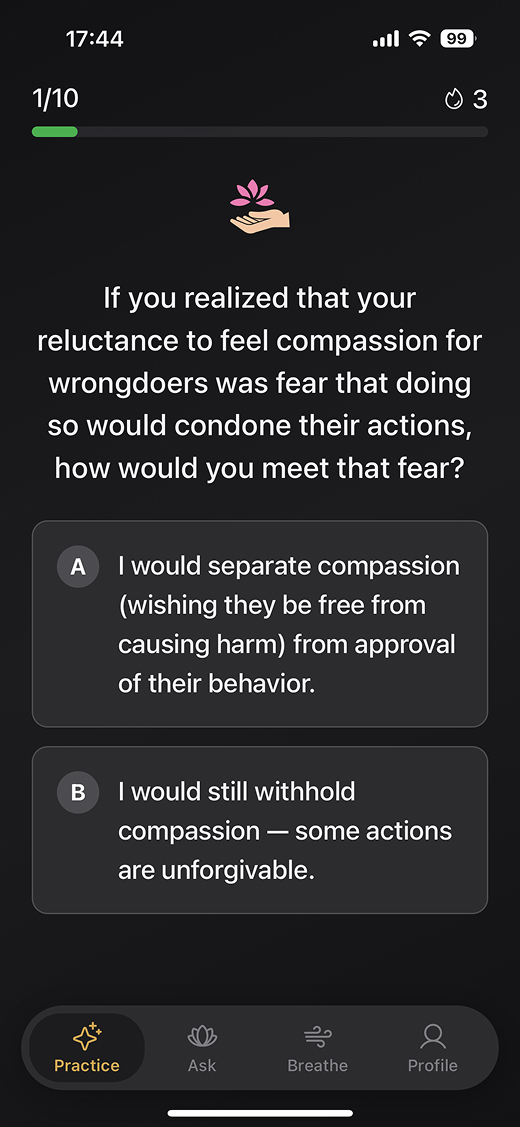
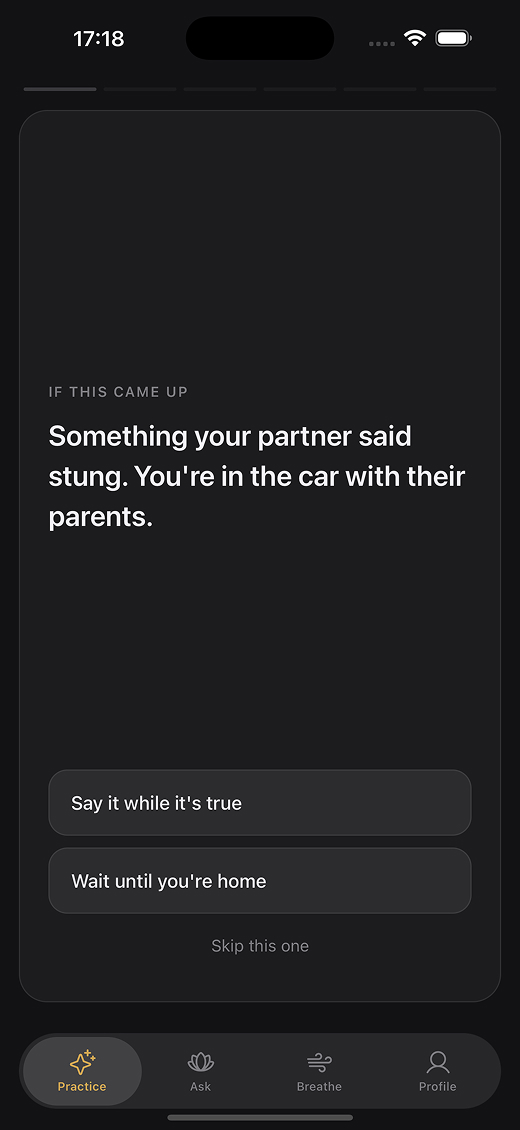
updated content

diff --git a/index.html b/index.html
@@ -2,7 +2,7 @@
 layout: default
 image: /assets/og-image.png
 title: Daily Mindful Decision-Making App
-description: Practice making calmer, wiser choices every day. Buddhist-inspired quizzes, AI-powered guidance, breathing exercises, and personal growth tracking. Free to start.
+description: Practice making calmer, wiser choices every day. A short Buddhist-inspired daily practice, AI-powered guidance, breathing exercises, and patterns that show where you actually lean. Free to start.
 ---
 
 <!-- Hero Section -->
@@ -121,14 +121,13 @@ description: Practice making calmer, wiser choices every day. Buddhist-inspired 
         <h2
           class="text-3xl sm:text-4xl lg:text-[44px] font-bold text-dark leading-tight mb-4"
         >
-          Track Your Growth Across 8 Core Buddhist Concepts
+          See Where You Actually Lean, Across Five Concepts
         </h2>
         <p class="text-body text-base leading-relaxed mb-6">
-          Every question you answer maps to a core Buddhist concept —
-          Compassion, Patience, Letting Go, Mindfulness, Right Speech,
-          Acceptance, Kindness, and Wisdom. Over time, your personal radar chart
-          reveals where you're strong and where you can grow. Watch your
-          awareness deepen with each day of practice.
+          Right Speech, Kindness, Patience, Letting Go and Mindfulness — each
+          one a real tension rather than a score. Your answers place you between
+          two honest options, and Patterns shows where you sit, along with the
+          gap between what you would do and what you did.
         </p>
         <a
           href="{{ '/practice-map/' | relative_url }}"

diff --git a/_pages/practice-map.md b/_pages/practice-map.md
@@ -1,49 +1,48 @@
 ---
 layout: page
-title: Practice Map — Track Your Mindfulness Growth Across 8 Buddhist Concepts
+title: Practice Map — See Where You Actually Lean Across Five Buddhist Concepts
 permalink: /practice-map/
 image: /assets/og-image.png
-description: Practice Map visualizes your mindfulness growth across 8 core Buddhist concepts — compassion, patience, letting go, mindfulness, right speech, acceptance, kindness, and wisdom.
+description: Patterns in the Choose Like Buddha app shows where you sit between two honest options across five Buddhist concepts — right speech, kindness, patience, letting go, and mindfulness — and the gap between what you would do and what you did.
 ---
 
 <div class="not-prose mb-10">
-{% include phone-mockup.html image="assets/screens/IMG_9284.jpg" alt="Practice Map radar chart in the Choose Like Buddha app" size="md" %}
+{% include phone-mockup.html image="assets/screens/IMG_9284.jpg" alt="The Patterns section in the Choose Like Buddha app" size="md" %}
 </div>
 
-# Practice Map: See Your Mindfulness Grow Across 8 Buddhist Concepts
+# Practice Map: See Where You Actually Lean
 
-Mindfulness isn't a single skill — it's a family of related qualities you strengthen one small choice at a time. **Practice Map** is the feature in the [Choose Like Buddha app]({{ '/' | relative_url }}) that turns those daily choices into a clear, visual picture of how your awareness is actually developing over time.
+Mindfulness isn't a single skill — it's a family of related qualities you meet one small choice at a time. **Patterns** is the part of the [Choose Like Buddha app]({{ '/' | relative_url }}) that turns those daily choices into a picture of where you actually sit, not a score for how well you did.
 
-## What Is the Practice Map?
+## What Patterns Shows You
 
-Practice Map is a personal radar chart that tracks your responses across eight foundational Buddhist concepts. Every quiz answer you give in the app maps to one of these eight dimensions, so the more you practice, the sharper the picture becomes. It's a mirror, not a scoreboard — a quiet way to see which parts of your mind you've been exercising and which ones could use more attention.
+Patterns is not a scoreboard, and there is no percentage to raise. Each day's practice asks you to choose between two options that are both defensible — sparing someone's feelings or telling them the truth, waiting or pressing, setting something down or keeping it live. Neither is the right answer. Over enough days, which one you reach for becomes visible, and that is the thing worth seeing.
 
-## The 8 Core Buddhist Concepts
+## The Five Concepts
 
-- **Compassion** — the warmth we extend to others and to ourselves
-- **Patience** — staying steady when things take longer than we'd like
-- **Letting Go** — releasing what we can't control
-- **Mindfulness** — returning to the present moment
-- **Right Speech** — speaking truthfully, kindly, and at the right time
-- **Acceptance** — meeting reality as it is, not as we wish it were
-- **Kindness** — small, deliberate acts of care
-- **Wisdom** — seeing clearly through the noise
+Each concept is a tension between two poles rather than a virtue to score:
 
-Together, these eight concepts cover the core territory of Buddhist ethical practice and map naturally onto the real decisions you make every day — at work, with family, and in your own mind.
+- **Right Speech** — sparing them, or telling them
+- **Kindness** — softening it, or letting it land
+- **Patience** — waiting, or pressing
+- **Letting Go** — setting it down, or keeping it live
+- **Mindfulness** — letting it pass, or marking it
 
-## How the Radar Chart Works
+These five cover the ground where most everyday decisions actually get made — at work, with family, and in your own head.
 
-1. **Answer daily quiz questions.** Each question presents a realistic situation with a common-sense response and a mindful one.
-2. **Your answers are scored across the 8 concepts.** Some questions test patience, others compassion, others right speech.
-3. **Your radar chart updates in real time.** The shape reveals your current strengths and the areas most ready for growth.
+## How It Works
 
-Over weeks and months, the chart becomes a living record of your practice — the kind of feedback loop that personal growth usually lacks.
+1. **A few short items a day.** Each concept comes round in turn: a check-in on what you noticed, something you already did, and something you might do.
+2. **Your answers place you on an axis.** One dot marks what you *would* do, the other what you *did*. Both are drawn only once there is enough behind them to mean something — a handful of answers, not one.
+3. **The gap between the dots is the interesting part.** Most people predict they will be more patient, or more honest, than they turn out to be. Patterns shows that distance instead of hiding it.
 
-## Why Tracking Mindfulness Matters
+The lean is drawn from roughly the last three months, so it moves slowly and reflects a disposition rather than a bad week. The check trend uses a shorter window — about a month — because it measures something that should be allowed to change.
 
-Most inner growth is invisible. You can't point to the moment you became more patient, more forgiving, or less reactive. Without a signal, it's easy to lose motivation or miss the progress you're actually making. The Practice Map gives that invisible growth a shape you can see change. Visual feedback is one of the most reliable ways to build and sustain a habit — mindfulness included.
+## Why Tracking This Matters
 
-## Who the Practice Map Is For
+Most inner growth is invisible. You can't point to the moment you became less reactive, and without a signal it's easy to lose the thread or miss progress you're actually making. What Patterns offers isn't a rising number — it's an honest mirror. Seeing that you *say* you'd speak up but usually don't is more useful than any score, because it's specific enough to act on.
+
+## Who It's For
 
 - People new to mindfulness who want a clear starting point
 - Experienced meditators curious about the gaps in their practice
@@ -52,18 +51,21 @@ Most inner growth is invisible. You can't point to the moment you became more pa
 
 ## Frequently Asked Questions
 
-**Do I need to know anything about Buddhism to use Practice Map?**
+**Do I need to know anything about Buddhism to use it?**
 No. The app explains each concept in plain language as you go.
 
 **Is my progress private?**
 Yes. Choose Like Buddha is privacy-respecting and ad-free. See the [Privacy Policy]({{ '/privacy-policy/' | relative_url }}) for details.
 
-**How long before I see a meaningful chart?**
-Most people see a recognizable pattern after a week or two of daily practice.
+**How long before I see something meaningful?**
+A dot appears once a concept has enough answers behind it — usually a week or two of daily practice. Thin concepts say so rather than drawing a shape from too little.
 
-**Is Practice Map free?**
-Yes. It's included in the free [Choose Like Buddha app]({{ '/' | relative_url }}).
+**Is there a right answer?**
+No. Both options are ones a thoughtful person might choose, and nothing is marked correct. If a situation didn't come up, you can say so and it counts as nothing at all.
 
-## Start Mapping Your Practice
+**Is it free?**
+Yes. Patterns is included in the free [Choose Like Buddha app]({{ '/' | relative_url }}), and the daily practice is the same on both plans.
 
-Small daily choices, tracked over time, become a practice. A practice, over time, becomes a life. [Download Choose Like Buddha]({{ '/' | relative_url }}) and watch your Practice Map take shape, one mindful answer at a time.
+## Start Your Practice
+
+Small daily choices, seen honestly over time, become a practice. A practice, over time, becomes a life. [Download Choose Like Buddha]({{ '/' | relative_url }}) and watch your own pattern come into focus.

diff --git a/_pages/privacy-policy.md b/_pages/privacy-policy.md
@@ -10,7 +10,7 @@ hide_app_cta: true
 # Privacy Policy
 
 **Last updated**
-29.07.2026
+27.09.2026
 
 Choose Like Buddha respects your privacy. This Privacy Policy explains how we collect, use, and protect your information when you use the app.
 
@@ -23,18 +23,20 @@ If you choose to create an account or sign in, we may collect:
 - Name (as provided by you)
 - Email address (for email sign-in)
 - Apple ID identifier (for Sign in with Apple)
+- Google account identifier and email address (for Sign in with Google)
 
 This information is used only to identify your account and save your progress.
 
 ### Guest Mode
 
-You may use the app without providing personal information by continuing as a guest. In guest mode, a temporary anonymous account is created to store your progress (quiz answers, statistics, and other app data) on our servers. No personal information such as name or email is collected. If you later create an account, your guest progress is preserved. If you sign out without creating an account, your guest data may become inaccessible.
+You may use the app without providing personal information by continuing as a guest. In guest mode, a temporary anonymous account is created to store your progress (practice answers, written reflections, statistics, and other app data) on our servers. No personal information such as name or email is collected. If you later create an account, your guest progress is preserved. If you sign out without creating an account, your guest data may become inaccessible.
 
 ### App Usage Data
 
 We collect limited app usage data to provide core features, including:
 
-- Quiz answers
+- Your daily practice answers
+- Written reflections you choose to save
 - Daily progress and statistics
 - Subscription status
 
@@ -55,22 +57,13 @@ This sync is off by default and requires your explicit permission. You can turn 
 
 Any questions entered in the "Ask Buddha" feature are used only to generate responses and are not analyzed as health information.
 
-### Food and Body Awareness Data
-
-If you use the food and body awareness feature, the app may store:
-
-- Food entries you create
-- Body or mood notes associated with foods
-
-This data is entered voluntarily and stored to support app features.
-
 ### Ask Buddha (AI-Generated Guidance)
 
 If you use the Ask Buddha feature, the questions you submit are sent to a third-party AI service (Anthropic) to generate personalized responses inspired by Buddhist wisdom.
 
-For free plan users, questions and responses are processed in real time and are **not** stored on our servers.
+Your questions and the AI-generated responses are saved to your account as conversation history so you can revisit past guidance. This applies on both plans: the free plan shows your 7 most recent entries, and premium subscribers can see their full history.
 
-For premium subscribers, your questions and the AI-generated responses are saved to your account as conversation history so you can revisit past guidance. You can delete individual entries or clear your entire Ask Buddha history at any time from within the app.
+You can delete individual entries or clear your entire Ask Buddha history at any time from within the app.
 
 ## Notifications
 
@@ -100,7 +93,7 @@ We do **not** sell, rent, or share your personal information with third parties 
 
 Information may be shared only when necessary to:
 
-- Authenticate users (Sign in with Apple)
+- Authenticate users (Sign in with Apple, Sign in with Google)
 - Process subscriptions through Apple In-App Purchases
 - Comply with legal obligations
 
@@ -146,6 +139,7 @@ We do not knowingly collect personal information from children.
 The app uses the following third-party services:
 
 - **Apple** — Sign in with Apple, In-App Purchases and subscriptions, and Apple Health (HealthKit) if you enable breathing-session sync
+- **Google** — Sign in with Google, and Google Play billing for subscriptions on Android
 - **Supabase** — Secure cloud database for storing your account and progress data
 - **PostHog** — Privacy-focused analytics to understand app usage and improve features (hosted in EU)
 - **Anthropic** — AI service used to generate Buddhist wisdom responses in the Ask Buddha feature

diff --git a/_pages/changelog.md b/_pages/changelog.md
@@ -9,7 +9,26 @@ image: /assets/og-image.png
 
 Stay up to date with the latest improvements, features, and fixes in Choose Like Buddha, a mindfulness and decision-making app inspired by Buddhist philosophy. On this page, we share detailed release notes for each version, including new features, performance enhancements, and bug fixes.
 
-We regularly update the app to improve user experience, add meaningful tools like daily reminders, and ensure stability across iOS devices. Check back often to see how the app evolves and how each update helps you make calmer, more conscious choices in everyday life.
+We regularly update the app to improve user experience, add meaningful tools like daily reminders, and ensure stability across iOS and Android devices. Check back often to see how the app evolves and how each update helps you make calmer, more conscious choices in everyday life.
+
+---
+
+## Version 2.0 - September 27, 2026
+
+### A Daily Practice, Not a Quiz
+
+Version 2.0 rebuilds the heart of the app. The quiz is gone, and with it the idea that one answer was right and the other was wrong.
+
+- Replaced the quiz with a **daily practice**: a handful of short items each day across five concepts. Each one offers two options a thoughtful person might choose, and neither is marked correct. If a situation did not come up for you, you can say so and it counts as nothing at all
+- The practice now moves through **five concepts** — Right Speech, Kindness, Patience, Letting Go, and Mindfulness. Each is a tension rather than a virtue to score: sparing someone or telling them, waiting or pressing, setting something down or keeping it live
+- Introduced **Patterns**, replacing the radar chart. Instead of a score per category, Patterns shows where you actually sit between a concept's two poles — one mark for what you *would* do, another for what you *did* — and the gap between them. Most of us predict we will be more patient than we turn out to be, and Patterns shows that distance rather than hiding it
+- A concept's mark is only drawn once there is enough behind it to mean something. Thin concepts say so instead of drawing a shape from too little
+- Added **Reflections** — an optional written note at the end of a session, kept as an archive you can read back
+- Reworked **Achievement Badges** around the new practice. Badges for correct answers and category mastery no longer made sense and have been retired; if you already earned one it stays on your profile, but it is no longer handed out. Twenty-seven badges are now reachable, across streaks, daily practice, breathing, reflections and Ask Buddha
+- **Ask Buddha history is now available on the free plan** — your 7 most recent questions and answers are kept, rather than none. Premium keeps the full history
+- General performance and stability improvements
+
+The old app asked whether you knew the wiser answer. This one assumes you usually do, and asks what you actually chose.
 
 ---
 

diff --git a/_pages/terms.md b/_pages/terms.md
@@ -10,7 +10,7 @@ hide_app_cta: true
 # Terms & Conditions
 
 **Last updated**
-13.04.2026
+27.09.2026
 
 Please read these Terms & Conditions ("Terms") carefully before using the Choose Like Buddha mobile application ("App") and website ("Website"), operated by [YOUR NAME OR BUSINESS NAME] ("we," "us," or "our").
 
@@ -18,7 +18,7 @@ By accessing or using the App or Website, you agree to be bound by these Terms. 
 
 ## 1. Overview
 
-Choose Like Buddha is a mindfulness application that helps users practice calm decision-making through quizzes, AI-powered guidance and breathing exercises. The App is available on iOS and Android platforms.
+Choose Like Buddha is a mindfulness application that helps users practice calm decision-making through a short daily practice, AI-powered guidance and breathing exercises. The App is available on iOS and Android platforms.
 
 ## 2. Eligibility
 
@@ -38,7 +38,7 @@ The Enlightened Path is available at $4.99 USD per month, billed through the App
 
 The Ask Buddha feature provides responses generated by artificial intelligence, inspired by Buddhist teachings. These responses are for personal reflection and educational purposes only.
 
-Premium subscribers may access Ask Buddha conversation history, which stores your questions and the AI-generated responses for future reference. You can delete individual entries or clear your full history at any time from within the App.
+Ask Buddha conversation history stores your questions and the AI-generated responses for future reference on both plans. The free plan shows your 7 most recent entries; premium subscribers can access the full history. You can delete individual entries or clear your full history at any time from within the App.
 
 AI-generated content is not a substitute for professional medical, psychological, legal, financial, or religious advice. We do not guarantee the accuracy, completeness, or suitability of any AI-generated response. You are solely responsible for any decisions you make based on the content provided by the App.
 
@@ -57,7 +57,7 @@ We reserve the right to suspend or terminate your account if you violate these T
 
 ## 7. Intellectual Property
 
-All content in the App, including but not limited to text, design, graphics, quizzes, and AI-generated responses, is owned by or licensed to us. You may not reproduce, distribute, or create derivative works from any content in the App without our written permission.
+All content in the App, including but not limited to text, design, graphics, practice content, and AI-generated responses, is owned by or licensed to us. You may not reproduce, distribute, or create derivative works from any content in the App without our written permission.
 
 ## 8. Privacy
 

diff --git a/_pages/about.md b/_pages/about.md
@@ -17,15 +17,15 @@ The app presents real-life situations and asks how you would respond. One answer
 
 Over time, you start to notice patterns in how you think and react. That awareness is where real growth begins.
 
-## More Than a Quiz
+## More Than the Daily Practice
 
 Choose Like Buddha also includes Ask Buddha — an AI-powered feature where you can describe any real-life situation and receive thoughtful guidance inspired by Buddhist teachings. It's like having a calm, mindful friend available whenever you need a moment of clarity.
 
-The app also offers a guided breathing exercise to reset your mind.
+The app also offers four guided breathing techniques to reset your mind.
 
 ## Your Growth, Visualized
 
-Every quiz question maps to one of 8 core Buddhist concepts: Compassion, Patience, Letting Go, Mindfulness, Right Speech, Acceptance, Kindness, and Wisdom. Your profile tracks your progress across all of them, revealing your strengths and where you can grow.
+The practice moves through five concepts: Right Speech, Kindness, Patience, Letting Go, and Mindfulness. Each carries a real tension — sparing someone or telling them, waiting or pressing — and your answers place you somewhere between the two. Patterns shows where you actually sit, and the gap between what you would do and what you did.
 
 ## Built by a Solo Developer
 

diff --git a/_pages/breathe.md b/_pages/breathe.md
@@ -12,7 +12,7 @@ description: Guided breathing exercises rooted in Buddhist and contemplative tra
 
 # Breathing Guide: Four Buddhist Breathing Techniques for a Calmer Mind
 
-Sometimes you don't need advice. You don't need a quiz. You don't even need words. You just need a moment to stop and breathe. The **Breathing Guide** in the [Choose Like Buddha app]({{ '/' | relative_url }}) offers four guided breathing techniques drawn from Buddhist and contemplative traditions — each designed to help you calm the nervous system, steady the mind, and return to the present moment.
+Sometimes you don't need advice. You don't need a question to sit with. You don't even need words. You just need a moment to stop and breathe. The **Breathing Guide** in the [Choose Like Buddha app]({{ '/' | relative_url }}) offers four guided breathing techniques drawn from Buddhist and contemplative traditions — each designed to help you calm the nervous system, steady the mind, and return to the present moment.
 
 ## Why Breathing Practice Works
 
